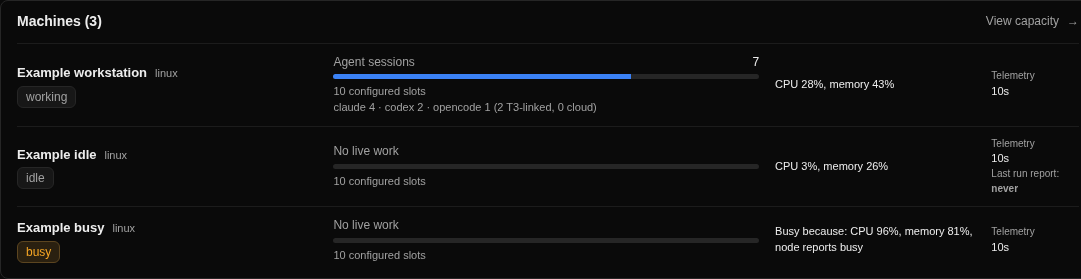
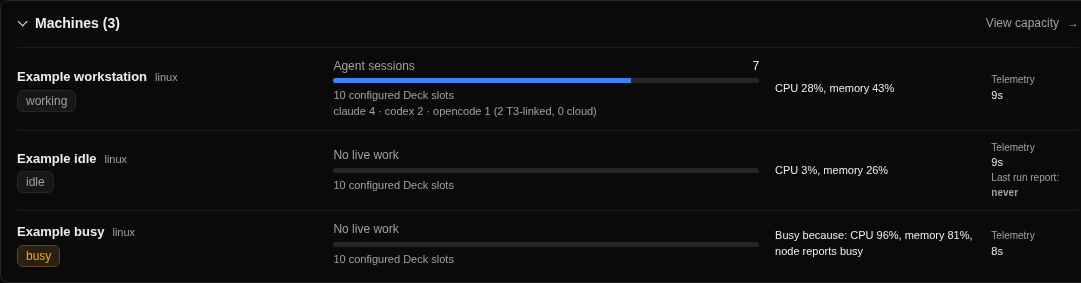
fix(deck): show busy reasons only for busy machines and tidy panel edge cases

diff --git a/src/brigade/fleet_admin_pages.py b/src/brigade/fleet_admin_pages.py
@@ -497,13 +497,14 @@ def _overview_live_work(view: deck.DeckView, station: deck.StationView) -> str:
         harnesses = " · ".join(f"{harness} {count}" for harness, count, _, _ in groups)
         linked = sum(group[2] for group in groups)
         cloud = sum(group[3] for group in groups)
-        details = f"<small>{_esc(harnesses)} ({linked} T3-linked, {cloud} cloud)</small>"
+        overlap = " (may overlap)" if linked and cloud else ""
+        details = f"<small>{_esc(harnesses)} ({linked} T3-linked, {cloud} cloud){overlap}</small>"
     managed = f"<small>brigade run {station.busy}/{capacity}</small>" if station.busy else ""
     headline = f"<span>Agent sessions</span><b>{station.sessions}</b>" if total else "<span>No live work</span>"
     return (
         f'<div class="overview-machine-capacity"><div>{headline}</div>'
         f'<progress class="overview-use-bar" value="{total}" max="{max(1, capacity)}" aria-label="Live work"></progress>'
-        f"<small>{capacity} configured slots</small>{details}{managed}</div>"
+        f"<small>{capacity} configured Deck slots</small>{details}{managed}</div>"
     )
 
 
@@ -517,20 +518,19 @@ def _overview_machine_load(view: deck.DeckView, machine: deck.MachineState | Non
     memory, sessions = view.machine_pressure.get(machine.node_id, (None, None))
     inputs = [
         (label, value)
-        for label, value in (("CPU", cpu), ("memory", memory), ("session load", sessions))
+        for label, value in (("CPU", cpu), ("memory", memory), ("placement session load", sessions))
         if value is not None and math.isfinite(value)
     ]
     high = [(label, value) for label, value in inputs if value >= DEFAULT_THRESHOLD]
     signals = [f"{label} {value:.0%}" for label, value in sorted(high, key=lambda item: item[1], reverse=True)]
-    if machine.unused_reason == "machine-load-shed":
-        signals.append("node is shedding load")
-    elif machine.state == "busy" or machine.unused_reason == "machine-busy":
+    node_busy = machine.state == "busy" or machine.unused_reason == "machine-busy"
+    if node_busy:
         signals.append("node reports busy")
-    if signals and status not in {"offline", "stale"}:
-        return "Busy because: " + ", ".join(signals)
     if status in {"offline", "stale"}:
         return "Load unknown"
-    return ", ".join(f"{label} {value:.0%}" for label, value in inputs if label != "session load") or "Load unknown"
+    if signals and (status in {"working", "limited"} or node_busy):
+        return "Busy because: " + ", ".join(signals)
+    return ", ".join(f"{label} {value:.0%}" for label, value in inputs if label in {"CPU", "memory"}) or "Load unknown"
 
 
 def render_overview_machines(view: deck.DeckView, now: datetime) -> str:

diff --git a/tests/test_fleet_placement.py b/tests/test_fleet_placement.py
@@ -4,6 +4,7 @@ from __future__ import annotations
 
 import json
 import sqlite3
+from dataclasses import replace
 from datetime import timedelta
 from io import StringIO
 
@@ -278,6 +279,23 @@ def test_deck_uses_placement_session_load_and_deduplicates_harness_counts(fleet)
     assert view.machine_pressure[NODE_CLOUD] == (0.33, cloud["effective_load"]) == (0.33, 0.75)
     assert view.stations[0].sessions == 2
     assert view.session_breakdown[NODE_CLOUD] == (("claude", 1, 1, 0), ("codex", 1, 0, 0))
+
+
+def test_deck_omits_placement_session_load_for_zero_concurrency(fleet):
+    plane = fleet_deck_pages_http.control_plane_from_hub(fleet)
+    machine = next(machine for machine in plane.machines if machine.node_id == NODE_LINUX)
+    plane = replace(plane, machines=(replace(machine, capacity="0"),))
+    assert fleet_deck_pages_http._machine_pressure(fleet, plane, {}, _now())[NODE_LINUX] == (None, None)
+
+
+def test_deck_pressure_falls_back_when_policy_cannot_be_read(fleet, monkeypatch):
+    plane = fleet_deck_pages_http.control_plane_from_hub(fleet)
+
+    def unavailable(_conn):
+        raise sqlite3.OperationalError("policy unavailable")
+
+    monkeypatch.setattr(fleet_hub_policy, "current_policy", unavailable)
+    assert fleet_deck_pages_http._machine_pressure(fleet, plane, {}, _now()) == {}
 
 
 def test_linked_provider_report_counts_once_at_full_weight(fleet):

diff --git a/src/brigade/fleet_deck_pages_http.py b/src/brigade/fleet_deck_pages_http.py
@@ -55,7 +55,10 @@ def _machine_pressure(
     counts: Mapping[str, int],
     now: datetime,
 ) -> dict[str, tuple[float | None, float | None]]:
-    document = fleet_hub_policy.current_policy(conn)["document"]
+    try:
+        document = fleet_hub_policy.current_policy(conn)["document"]
+    except (FleetHubError, sqlite3.Error, KeyError, ValueError, TypeError):
+        return {}
     routing = document.get("routing") or {}
     weight = routing.get("agent_session_weight", fleet_policy.DEFAULT_AGENT_SESSION_WEIGHT)
     standalone = fleet_hub_sessions.count_standalone_by_node(conn, now_epoch=now.timestamp()) if weight else {}
@@ -65,9 +68,10 @@ def _machine_pressure(
     for machine in plane.machines:
         node = machine.node_id
         sessions = counts.get(node, 0) if fleet_t3_health.sessions_unknown_reason(health, node) is None else None
+        capacity = int(machine.capacity) if machine.capacity.isdigit() else 0
         ratio = (
-            fleet_hub_placement.session_load_ratio(sessions, standalone.get(node, 0), int(machine.capacity), weight)
-            if machine.capacity.isdigit()
+            fleet_hub_placement.session_load_ratio(sessions, standalone.get(node, 0), capacity, weight)
+            if capacity > 0
             else None
         )
         pressure[node] = (memory.get(node), ratio)

diff --git a/src/brigade/fleet_deck_disclosure.py b/src/brigade/fleet_deck_disclosure.py
@@ -4,6 +4,7 @@ from html import escape
 
 
 def heading(identifier: str, title: str, count: int | None = None) -> str:
+    identifier = escape(identifier)
     summary = "" if count is None else f'<small class="overview-section-count"> · {count}</small>'
     return (
         f'<h2 id="{identifier}"><button type="button" class="overview-section-toggle" '
@@ -12,13 +13,13 @@ def heading(identifier: str, title: str, count: int | None = None) -> str:
 
 
 def body(identifier: str, content: str) -> str:
-    return f'<div class="overview-section-body" id="{identifier}-content">{content}</div>'
+    return f'<div class="overview-section-body" id="{escape(identifier)}-content">{content}</div>'
 
 
 def card(identifier: str, title: str, href: str, content: str, count: int) -> str:
     return (
-        f'<section class="admin-card" aria-labelledby="{identifier}"><header>'
-        f'{heading(identifier, title, count)}<a class="card-link" href="{href}">View all</a></header>'
+        f'<section class="admin-card" aria-labelledby="{escape(identifier)}"><header>'
+        f'{heading(identifier, title, count)}<a class="card-link" href="{escape(href)}">View all</a></header>'
         f"{body(identifier, content)}</section>"
     )
 

diff --git a/tests/test_fleet_deck_overview.py b/tests/test_fleet_deck_overview.py
@@ -1670,8 +1670,20 @@ def test_machine_row_orders_busy_inputs_by_load():
     plane = _plane([_machine("alpha", NODE_A, state="busy", load="0.96"), _machine("beta", NODE_B, load="0.03")])
     view = replace(view, control_plane=plane, machine_pressure={NODE_A: (0.81, 0.75), NODE_B: (0.26, 0)})
     html = pages.render_overview_machines(view, NOW)
-    assert "Busy because: CPU 96%, memory 81%, session load 75%, node reports busy" in html
+    assert "Busy because: CPU 96%, memory 81%, placement session load 75%, node reports busy" in html
     assert "CPU 3%, memory 26%" in html
+
+
+def test_idle_machine_with_high_cpu_shows_calm_readings():
+    from brigade import fleet_admin_pages as pages
+
+    view = _sessions_view([])
+    plane = _plane([_machine("alpha", NODE_A, load="0.96")])
+    view = replace(view, control_plane=plane, machine_pressure={NODE_A: (0.20, 0)})
+    html = pages.render_overview_machines(view, NOW)
+    assert ">idle<" in html and "No live work" in html
+    assert "CPU 96%, memory 20%" in html
+    assert "Busy because:" not in html
 
 
 def test_station_without_jobs_or_sessions_stays_idle():

diff --git a/tests/test_fleet_overview_routing.py b/tests/test_fleet_overview_routing.py
@@ -218,3 +218,16 @@ machines.onclick();
 assert.ok(panel(machines).hidden);
 """,
     )
+
+
+def test_disclosure_card_escapes_identifier_and_href_attributes():
+    from brigade import fleet_deck_disclosure
+
+    identifier = 'title" data-unexpected="value'
+    href = '/deck/activity?view="all"&status=live'
+    markup = Markup(fleet_deck_disclosure.card(identifier, "Work", href, "<p>Details</p>", 1))
+    assert all("data-unexpected" not in attrs for _, attrs in markup.tags)
+    assert any(attrs.get("aria-labelledby") == identifier for _, attrs in markup.tags)
+    assert any(attrs.get("aria-controls") == identifier + "-content" for _, attrs in markup.tags)
+    assert any(attrs.get("id") == identifier + "-content" for _, attrs in markup.tags)
+    assert any(attrs.get("href") == href for _, attrs in markup.tags)

diff --git a/tests/test_fleet_admin_reset.py b/tests/test_fleet_admin_reset.py
@@ -53,7 +53,7 @@ def test_overview_keeps_machine_capacity_in_a_short_scan_without_diagnostic_fold
     assert all(f'href="{href}"' in page for href in ("/deck/alerts", "/deck/activity", "/deck/capacity"))
     assert f"/deck/capacity{explorer.selection_href('11111111-1111-4111-8111-111111111111')}" in page
     assert "linux-a" in page and "windows" in page
-    assert "10 configured slots" in page and "brigade run 2/10" in page and "CPU 44%" in page
+    assert "10 configured Deck slots" in page and "brigade run 2/10" in page and "CPU 44%" in page
     assert "stale" in page and "2h 0m" in page
     assert 'id="fleet-title"' not in page and "Capacity telemetry unavailable" not in page
     assert "Ready to run: 3" in page
